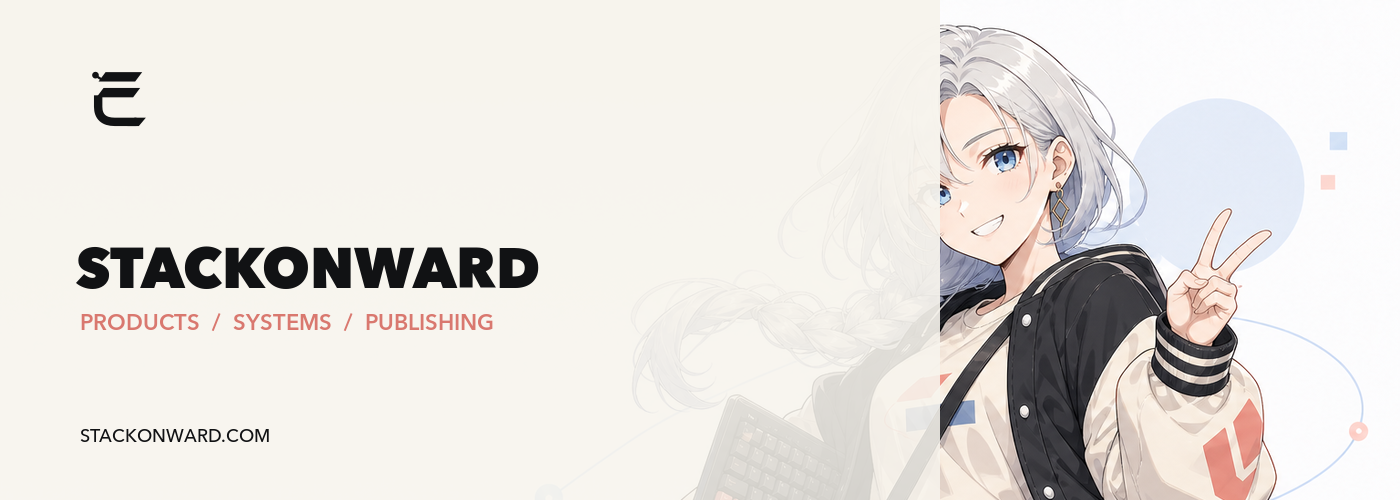
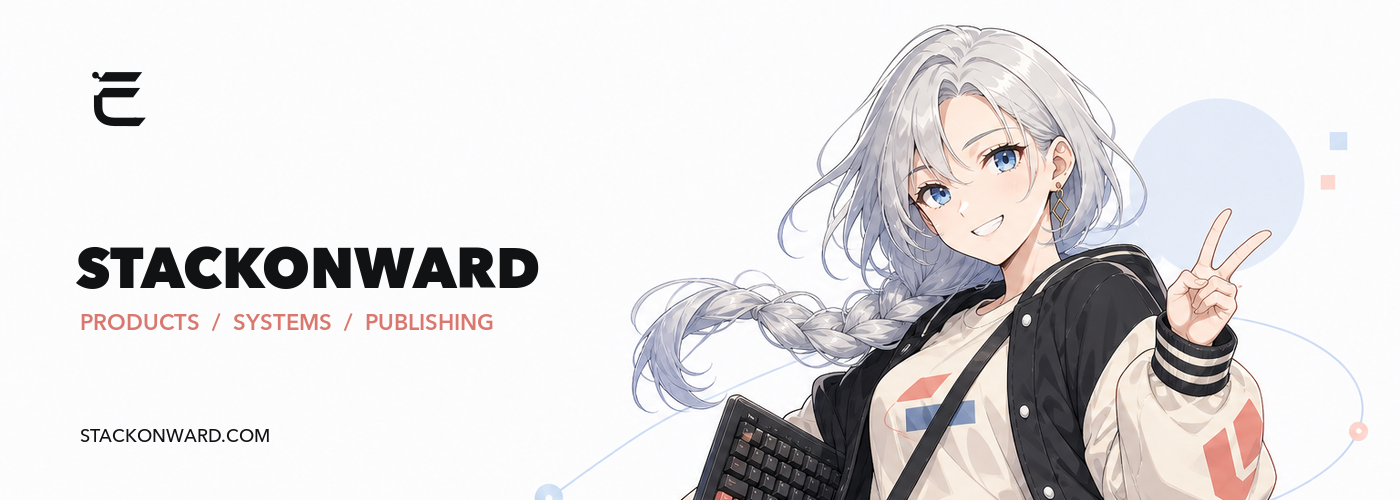
fix: refine organization profile layout

Changed region(s): [[0.43, 0.06, 0.6757, 1.0], [0.3686, 0.96, 0.3993, 1.0]]

diff --git a/profile/README.md b/profile/README.md
@@ -12,6 +12,7 @@
   <a href="https://stackonward.com/"><img src="https://img.shields.io/badge/Website-stackonward.com-111214?style=flat-square" alt="StackOnward website" /></a>
   <a href="https://stackonward.com/posts/"><img src="https://img.shields.io/badge/Articles-技术文章-3657B3?style=flat-square" alt="StackOnward articles" /></a>
   <a href="https://github.com/stackonward"><img src="https://img.shields.io/badge/GitHub-StackOnward-D9786F?style=flat-square&logo=github&logoColor=white" alt="StackOnward on GitHub" /></a>
+  <a href="https://www.npmjs.com/org/stackonward"><img src="https://img.shields.io/badge/npm-@stackonward-CB3837?style=flat-square&logo=npm&logoColor=white" alt="StackOnward on npm" /></a>
   <a href="mailto:yhy20010203@gmail.com"><img src="https://img.shields.io/badge/Contact-yhy20010203%40gmail.com-303238?style=flat-square&logo=gmail&logoColor=white" alt="Contact StackOnward" /></a>
 </p>
 
@@ -52,26 +53,31 @@
 
 ## 公开入口
 
-<table>
+<table width="100%">
   <tr>
-    <td width="50%">
+    <td colspan="4" width="66.67%">
       <sub>WEBSITE</sub><br />
       <strong><a href="https://stackonward.com/">stackonward.com</a></strong><br />
       文章、专题与公开资源
     </td>
-    <td width="50%">
+    <td colspan="2" width="33.33%">
       <sub>GITHUB</sub><br />
       <strong><a href="https://github.com/stackonward">@stackonward</a></strong><br />
       开源项目与公共仓库
     </td>
   </tr>
   <tr>
-    <td width="50%">
+    <td colspan="2" width="33.33%">
+      <sub>NPM</sub><br />
+      <strong><a href="https://www.npmjs.com/org/stackonward">@stackonward</a></strong><br />
+      组织与软件包
+    </td>
+    <td colspan="2" width="33.33%">
       <sub>MAINTAINER</sub><br />
       <strong><a href="https://github.com/1yhy">@1yhy</a></strong><br />
       项目维护与技术合作
     </td>
-    <td width="50%">
+    <td colspan="2" width="33.33%">
       <sub>CONTACT</sub><br />
       <strong><a href="mailto:yhy20010203@gmail.com">yhy20010203@gmail.com</a></strong><br />
       合作、开发与技术咨询

diff --git a/docs/designs/organization-profile.md b/docs/designs/organization-profile.md
@@ -20,7 +20,7 @@
 2. 公开系统图：产品工程、商业系统、交付运维、开源工具和技术内容。
 3. 当前开源项目：只展示已经公开且可验证的项目。
 4. 最新内容：只读取 `stackonward.com/posts/` 下的公开文章。
-5. 公开入口：网站、GitHub、维护者和联系方式。
+5. 公开入口：网站、GitHub、npm、维护者和联系方式。
 
 ## 文案契约
 
@@ -37,7 +37,7 @@
 | 产品工程 | 全栈、AI、身份、数据与架构资料 | 产品设计、AI、前端、后端、数据与架构 |
 | 商业系统 | 商品、定价、订单、支付、订阅与权益资料 | 目录、定价、订单、支付与订阅 |
 | 交付运维 | 云基础设施、网关、工作流、可观测与安全资料 | 云基础设施、CI/CD、可观测与安全 |
-| 开源工具 | 已公开仓库与 npm 制品 | 开发工具、自动化、脚本与模板 |
+| 开源工具 | 已公开仓库与软件包入口 | 开发工具、自动化、脚本与模板 |
 | 技术内容 | 远栈内容系统与网站公开文章 | 教程、设计决策、测评、复盘与资源 |
 
 ## 视觉系统
@@ -45,6 +45,8 @@
 - 画布：`#F7F4ED`，正文与标志：`#111214`。
 - 珊瑚色 `#D9786F` 只标记内容与商业节点；蓝色 `#3657B3` 只标记系统与交付节点。
 - 能力图采用非对称十二栏构图：一个主区块、两个窄区块、一个小区块和一个横向区块，由一条低对比路径贯穿。
+- 公开入口使用六栏表格：首行 `4 + 2`、次行 `2 + 2 + 2`，在 GitHub 内容区内保持满宽并建立层次。
+- 横幅直接使用角色原图的自然留白承载文字，不使用覆盖人物的分区遮罩。
 - SVG 内置暗色主题，不依赖 GitHub 页面自定义 CSS。
 - 移动端按图片整体等比缩放，不产生横向滚动。
 
